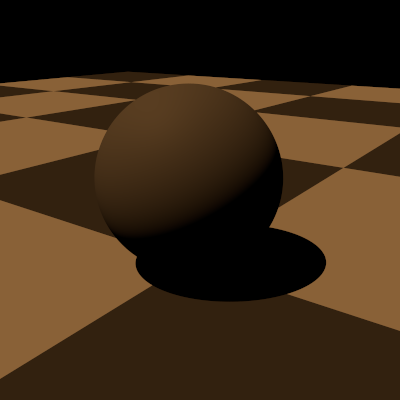
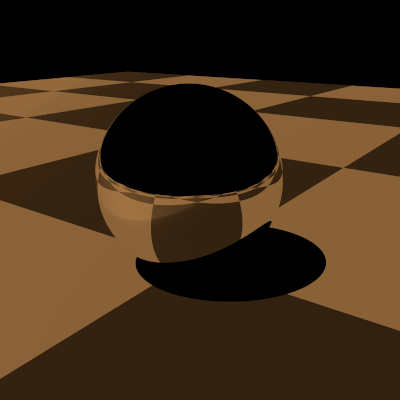
添加mirror材质

Changed region(s): [[0.24, 0.21, 0.72, 0.66], [0.0, 0.21, 0.12, 0.24], [0.0, 0.27, 0.03, 0.3]]

diff --git a/src/materials/mirror.cpp b/src/materials/mirror.cpp
@@ -1,0 +1,37 @@
+#include "mirror.h"
+#include "memory.h"
+#include "reflection.h"
+#include "interaction.h"
+#include "texture.h"
+#include "paramset.h"
+
+namespace pbrt
+{
+    
+void MirrorMaterial::ComputeScatteringFunctions(SurfaceInteraction *si,
+                                                MemoryArena &arena,
+                                                TransportMode mode,
+                                                bool allowMultipleLobes) const 
+{
+    if(bumpMap)
+        Bump(bumpMap, si);
+
+    si->bsdf = ARENA_ALLOC(arena, BSDF)(*si);
+    Spectrum R = Kr->Evaluate(*si).Clamp();
+    if(!R.IsBlack())
+        si->bsdf->Add(ARENA_ALLOC(arena, SpecularReflection)(
+            R, ARENA_ALLOC(arena, FresnelNoOp)()));
+}
+
+MirrorMaterial *CreateMirrorMaterial(const TextureParams& mp) 
+{
+    std::shared_ptr<Texture<Spectrum>> Kr =
+        mp.GetSpectrumTexture("Kr", Spectrum(1.f));
+
+    std::shared_ptr<Texture<Float>> bumpMap =
+        mp.GetFloatTextureOrNull("bumpmap");
+
+    return new MirrorMaterial(Kr, bumpMap);
+}
+
+}

diff --git a/src/core/reflection.h b/src/core/reflection.h
@@ -292,6 +292,39 @@ class FresnelDielectric : public Fresnel {
     Float etaI, etaT;
 };
 
+class FresnelNoOp : public Fresnel
+{
+  public:
+    Spectrum Evaluate(Float) const {return Spectrum(1.f);}
+
+    std::string ToString() const {return "[ FresnelNoOp ]";}
+};
+
+class SpecularReflection : public BxDF
+{
+  public:
+    SpecularReflection(const Spectrum& R, Fresnel* fresnel)
+    : BxDF(BxDFType(BSDF_REFLECTION | BSDF_SPECULAR)),
+        R(R),
+        fresnel(fresnel){}
+
+    Spectrum f(const Vector3f& wo, const Vector3f& wi) const 
+    {
+        return Spectrum(0.f);
+    }
+
+    Spectrum Sample_f(const Vector3f &wo, Vector3f *wi, const Point2f &sample,
+                      Float *pdf, BxDFType *sampledType) const;
+
+    Float Pdf(const Vector3f &wo, const Vector3f &wi) const { return 0; }
+
+    std::string ToString() const;
+
+  private:
+    const Spectrum R;
+    const Fresnel* fresnel;
+};
+
 class FresnelSpecular : public BxDF
 {
   public:

diff --git a/src/core/reflection.cpp b/src/core/reflection.cpp
@@ -361,4 +361,19 @@ std::string FresnelSpecular::ToString() const
     return "";
 }
 
+Spectrum SpecularReflection::Sample_f(const Vector3f &wo, Vector3f *wi,
+                                            const Point2f &sample, Float *pdf,
+                                            BxDFType *sampledType) const 
+{
+    *wi = Vector3f(-wo.x, -wo.y, wo.z);
+    *pdf = 1;
+    return fresnel->Evaluate(CosTheta(*wi)) * R / AbsCosTheta(*wi);
+}
+
+std::string SpecularReflection::ToString() const 
+{
+    return std::string("[ SpecularReflection R: ") + R.ToString() +
+           std::string(" fresnel: ") + fresnel->ToString() + std::string(" ]");
+}
+
 }  // namespace pbrt

diff --git a/src/core/api.cpp b/src/core/api.cpp
@@ -47,6 +47,7 @@
 #include "integrators/whitted.h"
 #include "lights/distant.h"
 #include "materials/plastic.h"
+#include "materials/mirror.h"
 #include "media/grid.h"
 #include "media/homogeneous.h"
 #include "samplers/random.h"
@@ -459,6 +460,8 @@ std::shared_ptr<Material> MakeMaterial(const std::string &name,
         return nullptr;
     else if (name == "plastic")
         material = CreatePlasticMaterial(mp);
+    else if (name == "mirror")
+        material = CreateMirrorMaterial(mp);
     else {
         Warning("Material \"%s\" unknown. Using \"matte\".", name.c_str());
         material = CreatePlasticMaterial(mp);  // CreateMatteMaterial

diff --git a/src/materials/mirror.h b/src/materials/mirror.h
@@ -1,0 +1,21 @@
+#pragma once
+#include "material.h"
+
+namespace pbrt 
+{
+	class MirrorMaterial : public Material
+	{
+	public:
+		MirrorMaterial(const std::shared_ptr<Texture<Spectrum>>& r,
+						const std::shared_ptr<Texture<Float>>& bump)
+			:Kr(r),bumpMap(bump){}
+	
+		void ComputeScatteringFunctions(SurfaceInteraction *si, MemoryArena &arena, TransportMode mode, bool allowMultipleLobes) const;
+
+	private:
+		std::shared_ptr<Texture<Spectrum>> Kr;
+		std::shared_ptr<Texture<Float>> bumpMap;
+	};
+
+	MirrorMaterial* CreateMirrorMaterial(const TextureParams& mp);
+}
